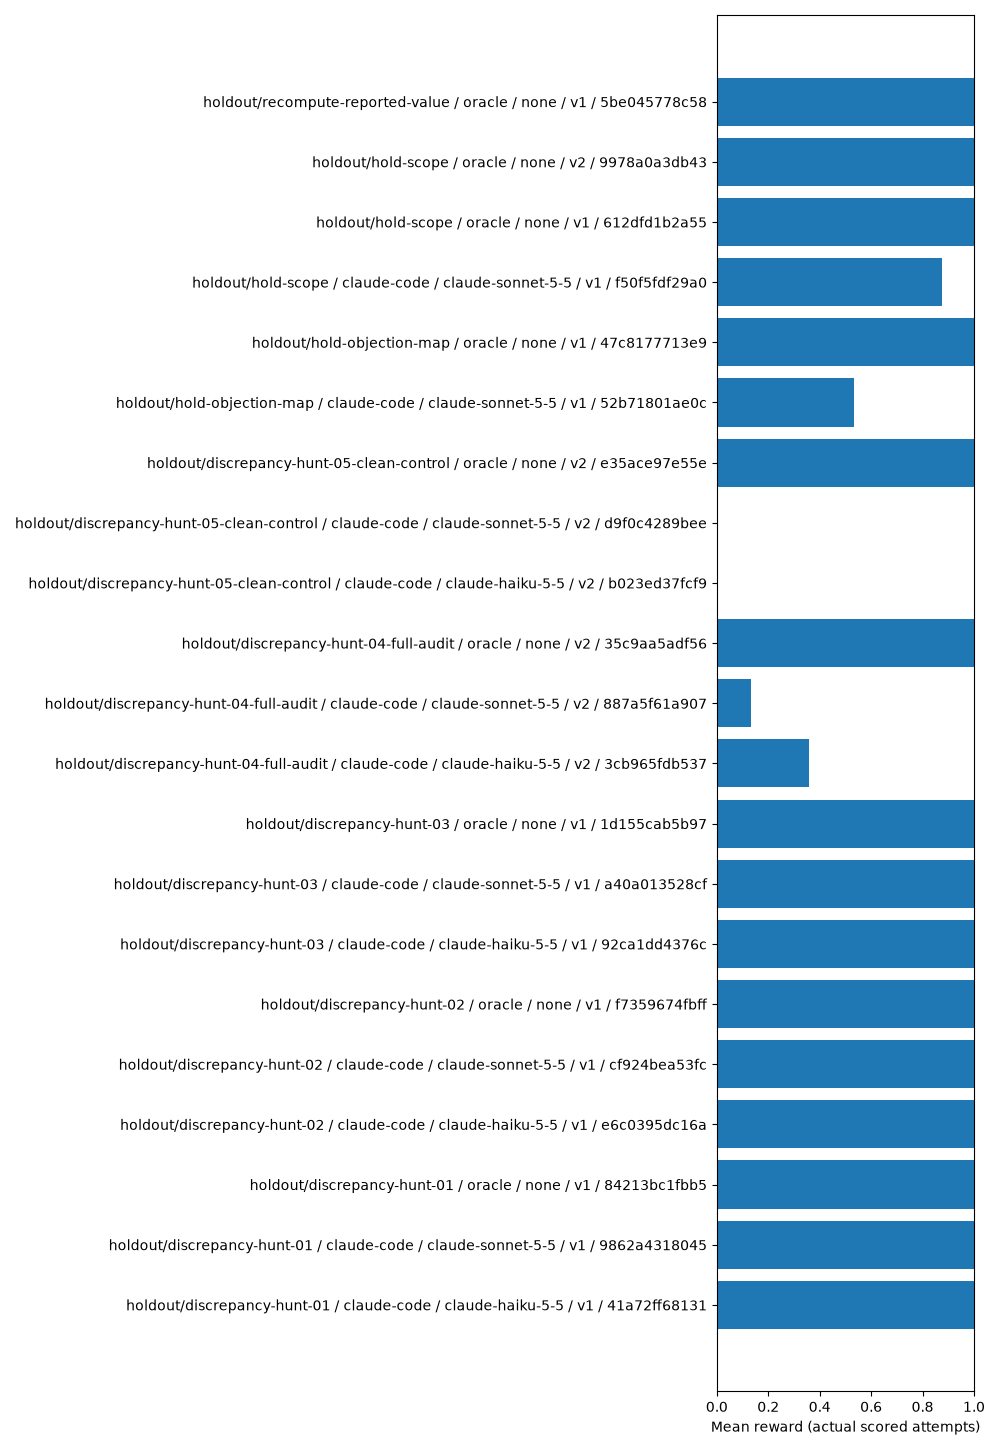
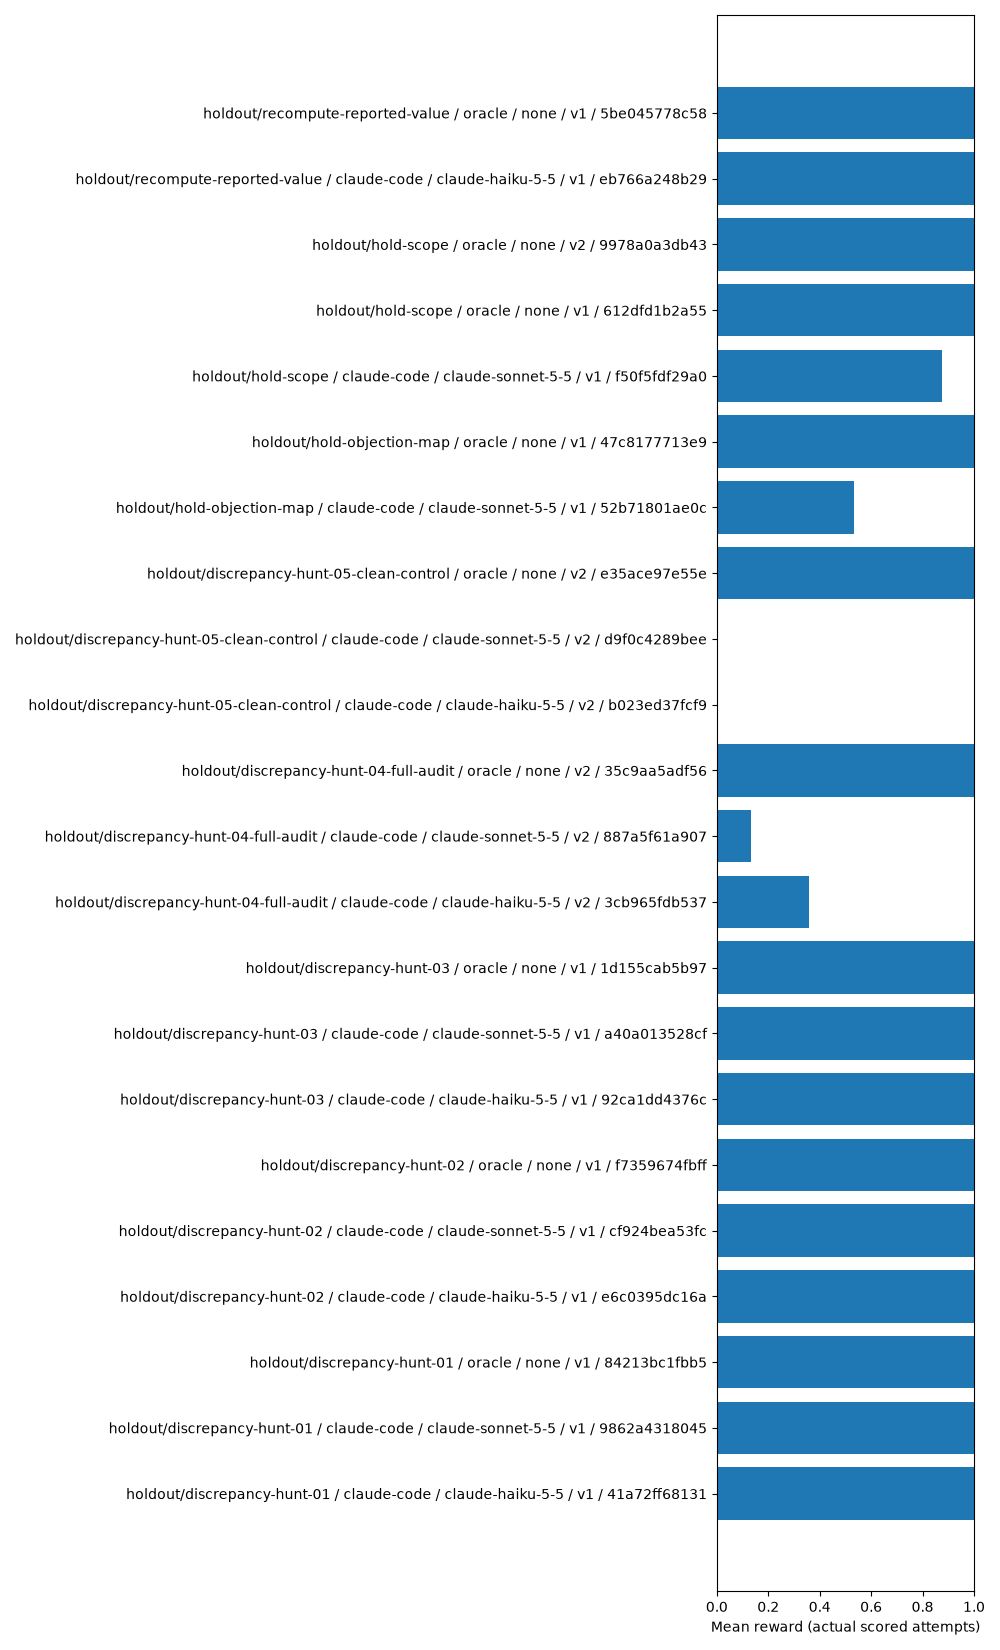
holdout: record ELISA Haiku and teammate setup attempts

Changed region(s): [[0.031, 0.0621, 0.992, 0.931], [0.713, 0.9621, 0.992, 0.9931], [0.093, 0.0931, 0.186, 0.1241]]

diff --git a/runs/SUMMARY.md b/runs/SUMMARY.md
@@ -13,6 +13,9 @@ Redacted exports; raw jobs remain local. Infrastructure failures are separate fr
 | holdout/discrepancy-hunt-03 | claude-code | claude-haiku-5-5 | v1 | 92ca1dd4376c | 1.000 | 1 | 0 | 1 |
 | holdout/discrepancy-hunt-03 | claude-code | claude-sonnet-5-5 | v1 | a40a013528cf | 1.000 | 1 | 0 | 1 |
 | holdout/discrepancy-hunt-03 | oracle | none | v1 | 1d155cab5b97 | 1.000 | 1 | 0 | 1 |
+| holdout/discrepancy-hunt-04 | claude-code | claude-haiku-5-5 | v2 | 1df9fdb9d3da | — | 0 | 1 | 1 |
+| holdout/discrepancy-hunt-04 | claude-code | claude-sonnet-5-5 | v2 | a85897bab226 | — | 0 | 1 | 1 |
+| holdout/discrepancy-hunt-04 | oracle | none | v2 | 9b13769c747c | — | 0 | 1 | 1 |
 | holdout/discrepancy-hunt-04-full-audit | claude-code | claude-haiku-5-5 | v2 | 1ab5fe7ca82b | — | 0 | 2 | 2 |
 | holdout/discrepancy-hunt-04-full-audit | claude-code | claude-haiku-5-5 | v2 | 3cb965fdb537 | 0.357 | 2 | 0 | 2 |
 | holdout/discrepancy-hunt-04-full-audit | claude-code | claude-haiku-5-5 | v2 | acecdb077cec | — | 0 | 2 | 2 |
@@ -32,13 +35,14 @@ Redacted exports; raw jobs remain local. Infrastructure failures are separate fr
 | holdout/hold-scope | claude-code | claude-sonnet-5-5 | v1 | f50f5fdf29a0 | 0.875 | 2 | 0 | 2 |
 | holdout/hold-scope | oracle | none | v1 | 612dfd1b2a55 | 1.000 | 1 | 0 | 1 |
 | holdout/hold-scope | oracle | none | v2 | 9978a0a3db43 | 1.000 | 1 | 0 | 1 |
+| holdout/recompute-reported-value | claude-code | claude-haiku-5-5 | v1 | eb766a248b29 | 1.000 | 1 | 0 | 1 |
 | holdout/recompute-reported-value | oracle | none | v1 | 5be045778c58 | 1.000 | 1 | 0 | 1 |
 
 ## Task-weighted agent results
 
 | Version | Agent | Model | Tasks | Attempts | Mean reward | Pass@1 | ±95% |
 | --- | --- | --- | ---: | ---: | ---: | ---: | ---: |
-| v1 | claude-code | claude-haiku-5-5 | 3 | 3 | 1.000 | 1.000 | 0.000 |
+| v1 | claude-code | claude-haiku-5-5 | 4 | 4 | 1.000 | 1.000 | 0.000 |
 | v1 | claude-code | claude-sonnet-5-5 | 5 | 7 | 0.882 | 0.600 | 0.177 |
 | v2 | claude-code | claude-haiku-5-5 | 2 | 4 | 0.179 | 0.000 | 0.350 |
 | v2 | claude-code | claude-sonnet-5-5 | 2 | 4 | 0.067 | 0.000 | 0.131 |

diff --git a/NOTES.md b/NOTES.md
@@ -49,5 +49,6 @@
 - 2026-11-14 — T1-B v1 Sonnet scored 8/15 on both attempts. Both got category right on all five IDs, missed the same three statuses, and cited the same out-of-set page for the sampling item. The trials took about two minutes and totaled an estimated $0.2853. Codex was skipped because OPENAI_API_KEY was unset. See `runs/FAILURES_DRAFT.md` for the annotated answer steps.
 - 2026-11-14 — Added three reproducible ELISA candidates and a local worksheet. The sum and range for each candidate were absent as exact numeric tokens from the indexed ELISA tables. The bounded audit worksheet has twelve leads, including two potential real filing inconsistencies and two optional raw-cell alterations. Reviewer decisions are required before adding gold or altering the staged data.
 - 2026-11-14 — Saksham explicitly approved T2’s hand-check for plate 026, C8. The task has 25 workspace tables, including sibling raw plates. It scored 0/0/1 on blank, plausibly wrong and gold. The copy and +20% numeric probes scored 0.667 and 0.500, respectively. The reviewer directed us to keep the rubric and report the scores. T2's Harbor oracle scored 1.0 in 19 seconds.
+- 2026-11-14 — The requested single T2 Haiku 5.5 run scored 6/6 in 34 seconds at an estimated $0.0042. The trace accessed the matching raw table before writing the answer. No tool argument referenced hidden files. Saksham chose to retain the T1-B v1 instruction and results.
 
 - 2026-11-14 — Collected eight scored v2 attempts (two per model per task). Full audit: Haiku 0.357, Sonnet 0.134; clean control: both 0. A focused trace check found retrieval of the count issue in 8/8. Seven citations failed the full target anchor; one corrected-value field combined duration and count. Kept failure tags provisional and excluded earlier infrastructure failures from score means.

diff --git a/README.md b/README.md
@@ -65,8 +65,8 @@ The Harbor oracle scored 1.0. Both Sonnet attempts scored 8/15 (0.533),
 with the same three status disagreements and a sampling citation outside
 the accepted pages. See [the T1 trial analysis](runs/FAILURES_DRAFT.md#t1-b-hold-objection-map).
 
-The ELISA recompute oracle scored 1.0. Its blank and plausibly wrong answers
-scored 0. Copying the reported mean into every numeric field scored 0.667,
+The ELISA recompute oracle and one Haiku attempt both scored 1.0. Blank and
+plausibly wrong answers scored 0. Copying the reported mean into every numeric field scored 0.667,
 and shifting all three numeric fields by 20% scored 0.500 with the other
 fields correct. These scores show the partial credit available for method,
 source and the agreement flag.

diff --git a/WRITEUP.md b/WRITEUP.md
@@ -21,7 +21,7 @@ Both hold-scope runs got 14/16. A reviewer-approved alternate source raised
 both [saved-answer replays](runs/T5_REGRADE.md) to 15/16; no new model was called.
 The objection-map Harbor oracle scored 1.0. Both Sonnet attempts scored 8/15.
 Saksham hand-checked the two ELISA wells and approved the three statistics.
-The recompute Harbor oracle scored 1.0.
+The recompute Harbor oracle and the single Haiku run scored 6/6.
 
 **What failed.** The apparent recovery-count miss was not a retrieval miss.
 All eight v2 answers located the issue. Seven quotations did not include the

diff --git a/runs/README.md b/runs/README.md
@@ -15,3 +15,6 @@ python scripts/review_run_exports.py data/v2-run-review --output runs
 ```
 
 [T5_REGRADE.md](T5_REGRADE.md) isolates the citation revision from live agent attempts.
+[FAILURES_DRAFT.md](FAILURES_DRAFT.md) records the T1 status and citation misses.
+The recompute task has one verified oracle and one scored Haiku attempt in
+[its trial records](holdout_recompute-reported-value/).
